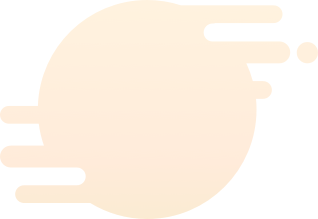
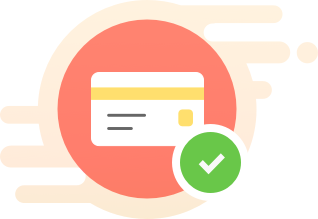
46弹窗-尚未绑定银行卡wallet，图片替换

diff --git a/src/pages/index/views/wallet/wallet.vue b/src/pages/index/views/wallet/wallet.vue
@@ -117,7 +117,7 @@
         <!-- 尚未绑定银行卡 -->
         <div class='dialogBg' v-show="flag2">
             <div class="dialog1 flexBox">
-                <div class="warnIcon"></div>
+                <div class="warnIcon2"></div>
                 <p class="f28 g6 pt30 pb50">{{msg1}}</p>
                 <router-link :to="where" class="realNameBtn gf bg-red ml20">确定</router-link>
                 <div class="f28 g6" @click="fCloseDialog">取消</div>
@@ -450,7 +450,13 @@
     .warnIcon {
         width: 329px;
         height: 219px;
-        background: url("./images/dialog1.png") center no-repeat;
+        background: url("./images/dialog.png") center no-repeat;
+        background-size: 329px 219px;
+    }
+    .warnIcon2 {
+        width: 329px;
+        height: 219px;
+        background: url("./images/dialog2.png") center no-repeat;
         background-size: 329px 219px;
     }
 
@@ -478,7 +484,7 @@
     .bg-gradient_1 {
       display: flex;
       background: #fff;
-      padding: 60px 40px 100px;
+      padding: 100px 40px 100px;
     }
     .dec {
       width: 113px;
